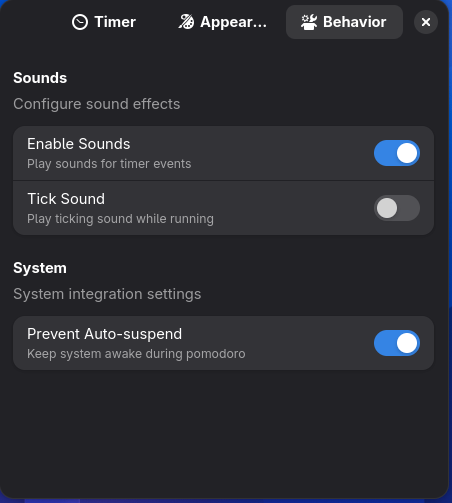
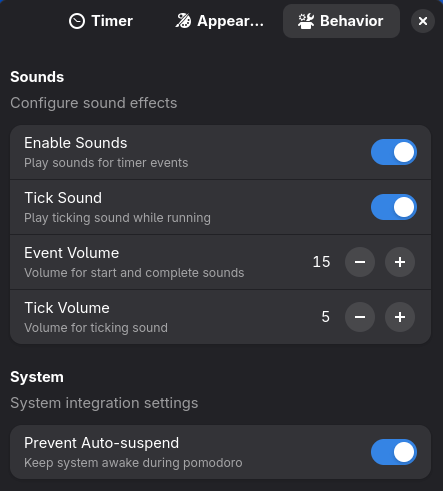
docs(readme): add volume settings, release install instructions, and update links

diff --git a/README.md b/README.md
@@ -8,7 +8,7 @@ A sleek GNOME Shell extension for productivity using the Pomodoro Technique.
 ## Features
 
 - **Timer Controls** - Start, Pause, Skip, Reset from the panel dropdown
-- **Sound Notifications** - Audio alerts for timer events
+- **Sound Notifications** - Adjustable audio alerts for timer events
 - **Suspend Inhibitor** - Keeps your system awake during pomodoros (Caffeine Like)
 - **Adjustable Durations** - Work, Short Break, Long Break, Intervals per Set
 - **Minimal UI** - Timer hidden when idle, shown only when running
@@ -34,7 +34,7 @@ A sleek GNOME Shell extension for productivity using the Pomodoro Technique.
 
 ## Settings
 
-Open preferences via:
+Open preferences via Settings button on dropdown menu, via extension manager or via command line:
 ```bash
 gnome-extensions prefs pomodoro-timer@Oguzhankokulu.github.com
 ```
@@ -46,9 +46,31 @@ gnome-extensions prefs pomodoro-timer@Oguzhankokulu.github.com
 | Always Show Timer | Show timer in panel even when idle |
 | Enable Sounds | Play audio notifications |
 | Tick Sound | Play ticking sound while running |
+| Event Volume | Volume of event sounds |
+| Tick Volume | Volume of ticking sound |
 | Prevent Auto-suspend | Keep system awake during pomodoro |
 
 ## Installation
+
+### From GNOME Extensions Website
+
+Install directly from [GNOME Extensions](https://extensions.gnome.org/extension/9157/pomodoro-timer/). This version might be outdated. For the latest version, see [GitHub Release](https://github.com/Oguzhankokulu/pomodoro-timer/releases).
+
+### From GitHub Release
+
+1. Download the latest `.zip` from [Releases](https://github.com/Oguzhankokulu/pomodoro-timer/releases)
+2. Extract and move to extensions directory:
+
+```bash
+# Extract the zip
+unzip pomodoro-timer@Oguzhankokulu.github.com.zip -d pomodoro-timer@Oguzhankokulu.github.com
+
+# Move to extensions directory
+mv pomodoro-timer@Oguzhankokulu.github.com ~/.local/share/gnome-shell/extensions/
+
+# Enable extension (logout/login required on Wayland)
+gnome-extensions enable pomodoro-timer@Oguzhankokulu.github.com
+```
 
 ### From Source
 
@@ -69,7 +91,7 @@ glib-compile-schemas ~/.local/share/gnome-shell/extensions/pomodoro-timer@Oguzha
 gnome-extensions enable pomodoro-timer@Oguzhankokulu.github.com
 ```
 
-### To Update Existing Extension via GitHub
+### Updating via Git
 
 ```bash
 # Go to the extensions directory
@@ -81,8 +103,7 @@ git pull
 # Compile schemas
 glib-compile-schemas ~/.local/share/gnome-shell/extensions/pomodoro-timer@Oguzhankokulu.github.com/schemas/
 
-# Enable extension (logout/login required on Wayland)
-gnome-extensions enable pomodoro-timer@Oguzhankokulu.github.com
+# Restart GNOME Shell (logout/login on Wayland)
 ```
 
 ## Customization
@@ -101,7 +122,6 @@ Replace sound files in `assets/sounds/`:
 ## Requirements
 
 - GNOME Shell 45, 46, 47, 48, or 49
-- `pw-play` (PipeWire, GNOME 46+) or `paplay` (PulseAudio) for sound playback
 
 ## License
 
